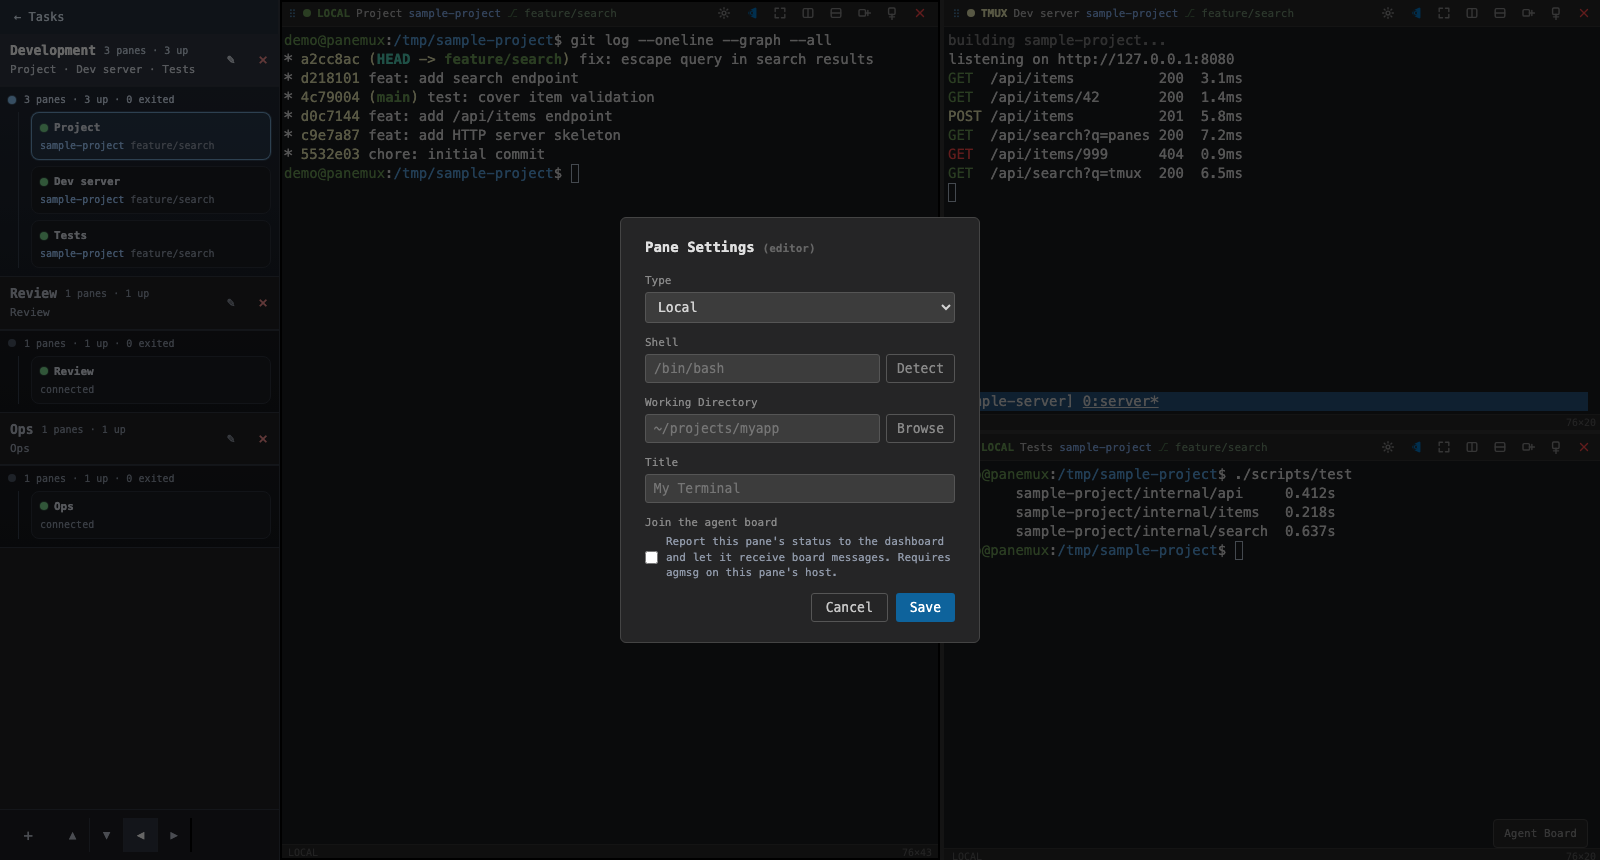
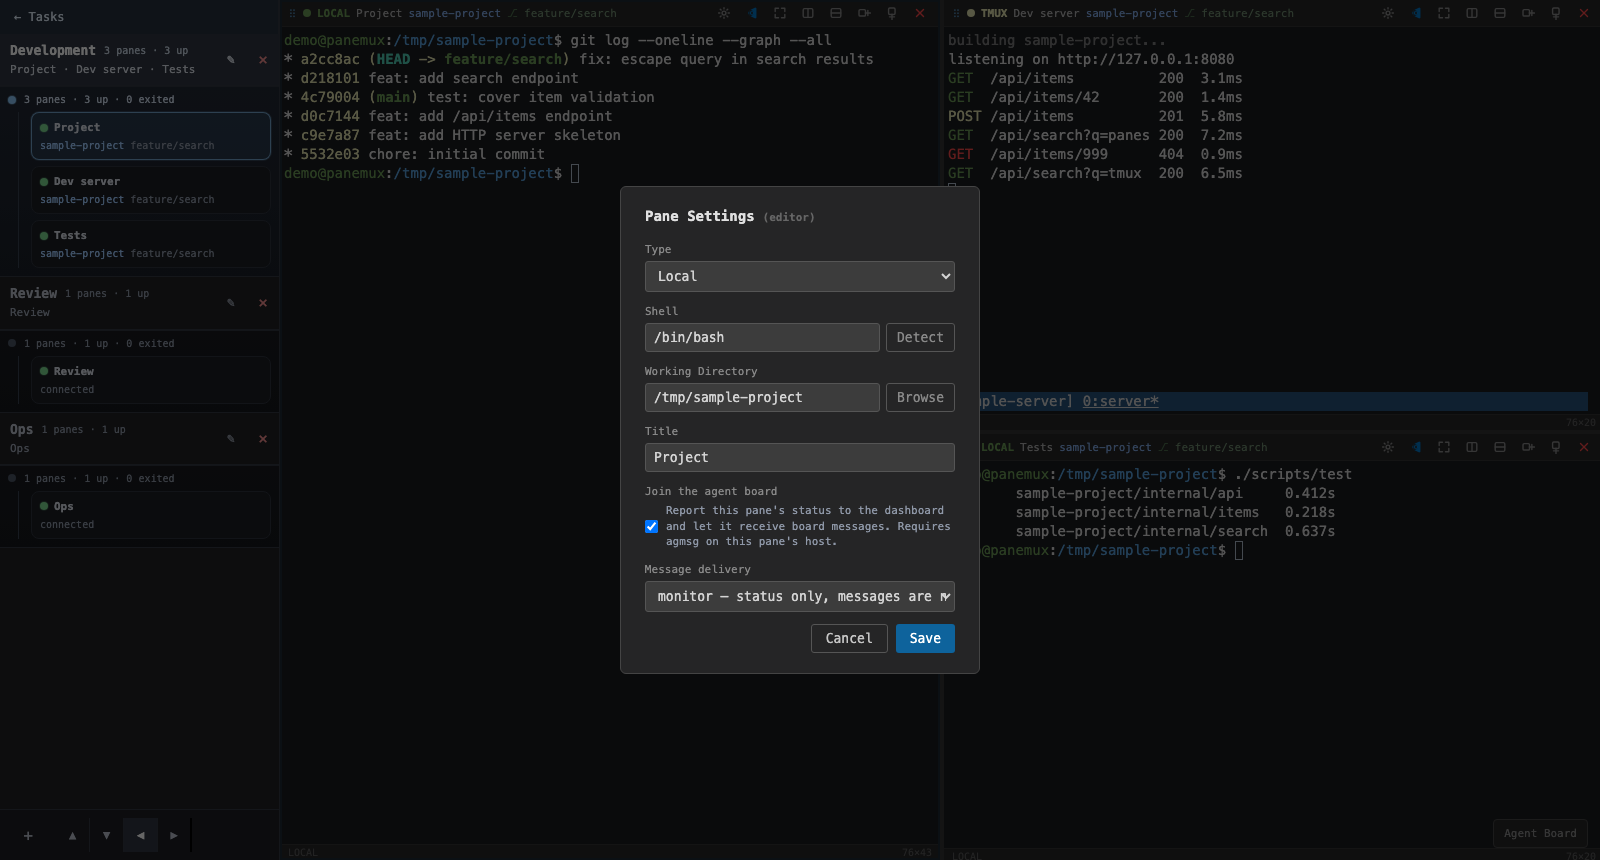
test: take the pane settings screenshot once the pane's settings load

Changed region(s): [[0.375, 0.2116, 0.625, 0.786], [0.5312, 0.3326, 0.5938, 0.514]]

diff --git a/frontend/screenshots/screenshots.spec.ts b/frontend/screenshots/screenshots.spec.ts
@@ -54,6 +54,9 @@ test('documentation screenshots', async ({ page }) => {
     await pane(page, 'editor').getByTitle('Pane settings').click()
     const dialog = page.getByRole('dialog', { name: 'Pane settings' })
     await expect(dialog).toBeVisible()
+    // The dialog opens before the pane's settings load into it.
+    await expect(dialog.getByPlaceholder('My Terminal')).toHaveValue('Project')
+    await expect(dialog.getByLabel('Message delivery')).toBeVisible()
     await page.screenshot({ path: imagePath('pane-settings.png') })
     await dialog.getByRole('button', { name: 'Cancel' }).click()
     await expect(dialog).toHaveCount(0)
